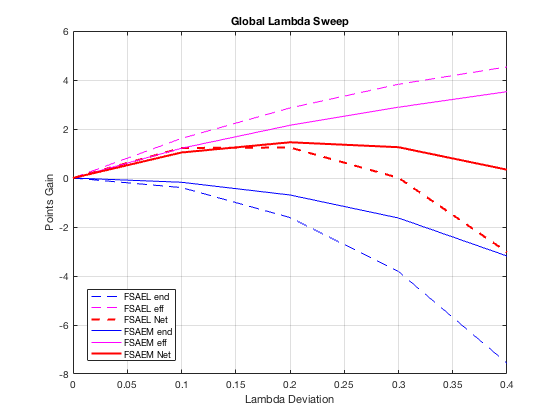
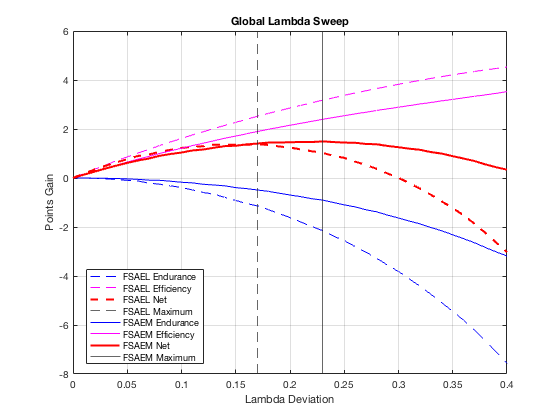
Set up for lambda sweep

diff --git a/RFS3.m b/RFS3.m
@@ -1,44 +1,71 @@
 % June 7, 2020
 % Joe Koszut
-% Directions:
-% Choose one of the log files below and run script
+% Script used for sweeping vehicle parameters in fuelSim.
+
+% DIRECTIONS:
+% 1. Choose one of the log files below
+% 2. Define a sweep
+% 3. Go to accelSim and set up the vehice parameters of interest so that 
+%    they can be changed during the sweep
+% 3. Set up data mapping accordingly in the for loop
+% 4. Run script
 
 clc
 clear all
 close all
 
-% run params
 format shortG
 
-% NOTE: First FSAEL log file has formatting issue and is corrected with
+% CHOOSE LOG FILE
+% Can use just one log if only performing sweep for either FSAEM or FSAEL. 
+% Can also use both log files, simply set up the sweep accordingly.
+% NOTE: First FSAEL log file has a formatting issue and is corrected with
 % the file below it
 LogFSAEM = 'FSAEM_Endurance_20190511-1260803.csv';
-% Log = 'FSAEL_Endurance_20190622-1260800.csv';
+% LogFSAEL = 'FSAEL_Endurance_20190622-1260800.csv';
 LogFSAEL = 'FSAEL_Endurance_20190622-1260800_MATLABfix.csv';
 
-t5 = tic();
-fprintf('Running parfor loop\n')
-
+% SWEEP DEFINITION
+% Use factor1 to pass in a modifier to accelSim and change a vehicle
+% parameter
+% Example: Pass in how much lambda should change and set up an
+% equation in accelSim to recalculate torque. Equation example:
 % torque = MBT*(-2.65*lambdaDev.^2 - 0.0437*lambdaDev + 1);
-factor1 = 0:0.1:0.4; % lambdaDev
+factor1 = 0:0.01:0.4; % lambdaDev
+
+% INITIALIZE ARRAYS TO STORE SWEEP RESULTS
+% Arrays below for storing total endurace lap time and fuel consumed
+FSAEMresults = zeros(length(factor1),2);
+FSAELresults = zeros(length(factor1),2);
+% Arrays below for storing endurace and effciency points
 FSAEMpts = zeros(length(factor1),2);
 FSAELpts = zeros(length(factor1),2);
+% Cells below for storing parameters of each straight and each accelSim run
 FSAEMsimData = cell(length(factor1),1);
 FSAELsimData = cell(length(factor1),1);
+% Time loop
+t5 = tic();
+fprintf('Running parfor loop\n')
 parfor k = 1:length(factor1)
     fprintf('=======================================\n')
     fprintf('------------- %0.0f out of %0.0f -------------\n', k, length(factor1))
     % FSAEM
     [newTimeFSAEM, newFuelFSAEM, straightsFSAEM, accelSimDataFSAEM] = fuelSim(LogFSAEM,0,0,1,[factor1(k)]);
     [FSAEMendpts,FSAEMeffpts] = calcPointsFSAEM(newTimeFSAEM,newFuelFSAEM);
+    FSAEMresults(k,:) = [newTimeFSAEM newFuelFSAEM];
     FSAEMpts(k,:) = [FSAEMendpts FSAEMeffpts];
     FSAEMsimData{k} = accelSimDataFSAEM;
     % FSAEL
     [newTimeFSAEL, newFuelFSAEL, straightsFSAEL, accelSimDataFSAEL] = fuelSim(LogFSAEL,0,0,1,[factor1(k)]);
     [FSAELendpts,FSAELeffpts] = calcPointsFSAEL(newTimeFSAEL,newFuelFSAEL);
+    FSAELresults(k,:) = [newTimeFSAEL newFuelFSAEL];
     FSAELpts(k,:) = [FSAELendpts FSAELeffpts];
     FSAELsimData{k} = accelSimDataFSAEL;
 end
 
 dt5 = toc(t5);
 fprintf('Time to run parfor loop: %0.2f sec\n', dt5)
+
+
+% Run SweepPlotGeneral to produce a general plot of the sweep.
+run SweepPlotGeneral

diff --git a/SweepPlotGeneral.m b/SweepPlotGeneral.m
@@ -1,22 +1,56 @@
-% factor1 = factor1-13500;
-plot(factor1,FSAELpts(:,1),'b--')
+% Plot Points
+figure
+p1 = plot(factor1,FSAELpts(:,1),'b--');
 hold on
-plot(factor1,FSAELpts(:,2),'m--')
+p2 = plot(factor1,FSAELpts(:,2),'m--');
 hold on
-plot(factor1,FSAELpts(:,1)+FSAELpts(:,2),'r--', 'linewidth', 2)
+p3 = plot(factor1,FSAELpts(:,1)+FSAELpts(:,2),'r--', 'linewidth', 2);
 hold on
-plot(factor1,FSAEMpts(:,1),'b')
+p4 = plot(factor1,FSAEMpts(:,1),'b');
 hold on
-plot(factor1,FSAEMpts(:,2),'m')
+p5 = plot(factor1,FSAEMpts(:,2),'m');
 hold on
-plot(factor1,FSAEMpts(:,1)+FSAEMpts(:,2), 'r', 'linewidth', 2)
-legend('FSAEL end', 'FSAEL eff', 'FSAEL Net', ...
-       'FSAEM end', 'FSAEM eff', 'FSAEM Net', 'location', 'best')
-% title('(FEPW and Torque) * factor1')
+p6 = plot(factor1,FSAEMpts(:,1)+FSAEMpts(:,2), 'r', 'linewidth', 2);
+FSAELopt = find(FSAELpts(:,1)+FSAELpts(:,2)==max(FSAELpts(:,1)+FSAELpts(:,2)));
+FSAEMopt = find(FSAEMpts(:,1)+FSAEMpts(:,2)==max(FSAEMpts(:,1)+FSAEMpts(:,2)));
+p7 = xline(factor1(FSAELopt),'--');
+p8 = xline(factor1(FSAEMopt));
+legend([p1 p2 p3 p7 p4 p5 p6 p8], ...
+       {'FSAEL Endurance', 'FSAEL Efficiency', 'FSAEL Net', 'FSAEL Maximum', ...
+        'FSAEM Endurance', 'FSAEM Efficiency', 'FSAEM Net', 'FSAEM Maximum'}, ...
+        'location', 'best')
 title('Parameter Sweep')
 xlabel('factor1')
-ylabel('pts gain')
+ylabel('Points Gain')
 grid on
+ax1 = gca;
 % Avoid scientfic notation on axes
 % ax = gca;
+% ax.XRuler.Exponent = 0;
+%% Plot Times and Fuel Consumption
+figure
+p9 = plot(factor1,FSAELresults(:,1)-FSAELresults(1,1),'b--');
+yyaxis right
+p10 = plot(factor1,FSAELresults(:,2)-FSAELresults(1,2),'m--');
+yyaxis left
+hold on
+p11 = plot(factor1,FSAEMresults(:,1)-FSAEMresults(1,1),'b');
+yyaxis right
+hold on
+p12 = plot(factor1,FSAEMresults(:,2)-FSAEMresults(1,2),'m');
+p13 = xline(factor1(FSAELopt),'--');
+p14 = xline(factor1(FSAEMopt));
+legend([p9 p10 p13 p11 p12 p14], ...
+       {'FSAEL Time [sec]', 'FSAEL Fuel [cc]', 'FSAEL Maximum',...
+        'FSAEM Time [sec]', 'FSAEM Fuel [cc]', 'FSAEM Maximum'}, ...
+        'location', 'best')
+title('Parameter Sweep')
+xlabel('factor1')
+ylabel('Overall Fuel Consumed Delta [cc]','rotation',-90,'VerticalAlignment','bottom')
+yyaxis left
+ylabel('Overall Time Delta [sec]')
+grid on
+ax2 = gca;
+ax2.YAxis(2).Color = 'k';
+% Avoid scientfic notation on axes
 % ax.XRuler.Exponent = 0;

diff --git a/accelSim.m b/accelSim.m
@@ -68,11 +68,11 @@ RPM = [0 2000:500:13500 14000]; % rpm
 FEPW = input_FEPW;
 Torque_lbft = input_Torque_lbft;
 Torque_Nm = Torque_lbft/2.20462*g*12*2.54/100; % Nm
-% Lambda = [1 1.046 0.95 0.9667 0.982 0.9314 0.9608	0.9296 0.9347 0.9348 ...
-%     0.9357 0.9305 0.9203 0.9215 0.9274 0.919 0.9171	0.9181 0.9003 0.8841 ...
-%     0.9235 0.9071 0.8763 0.8519 0.8711 0.8509];
-% FEPW = FEPW./((Lambda+modifierArray(1))./Lambda);
-% Torque_Nm = Torque_Nm*(-2.65*modifierArray(1)^2 - 0.0437*modifierArray(1) + 1);
+Lambda = [1 1.046 0.95 0.9667 0.982 0.9314 0.9608	0.9296 0.9347 0.9348 ...
+    0.9357 0.9305 0.9203 0.9215 0.9274 0.919 0.9171	0.9181 0.9003 0.8841 ...
+    0.9235 0.9071 0.8763 0.8519 0.8711 0.8509]; % Reference lambda
+FEPW = FEPW./((Lambda+modifierArray(1))./Lambda);
+Torque_Nm = Torque_Nm*(-2.65*modifierArray(1)^2 - 0.0437*modifierArray(1) + 1);
 % LC_wss = [0 1 2 3 4 5 7.5 10 15 20 25];
 shifttime = 0.125; % sec
 shifttimer = 0; % sec
